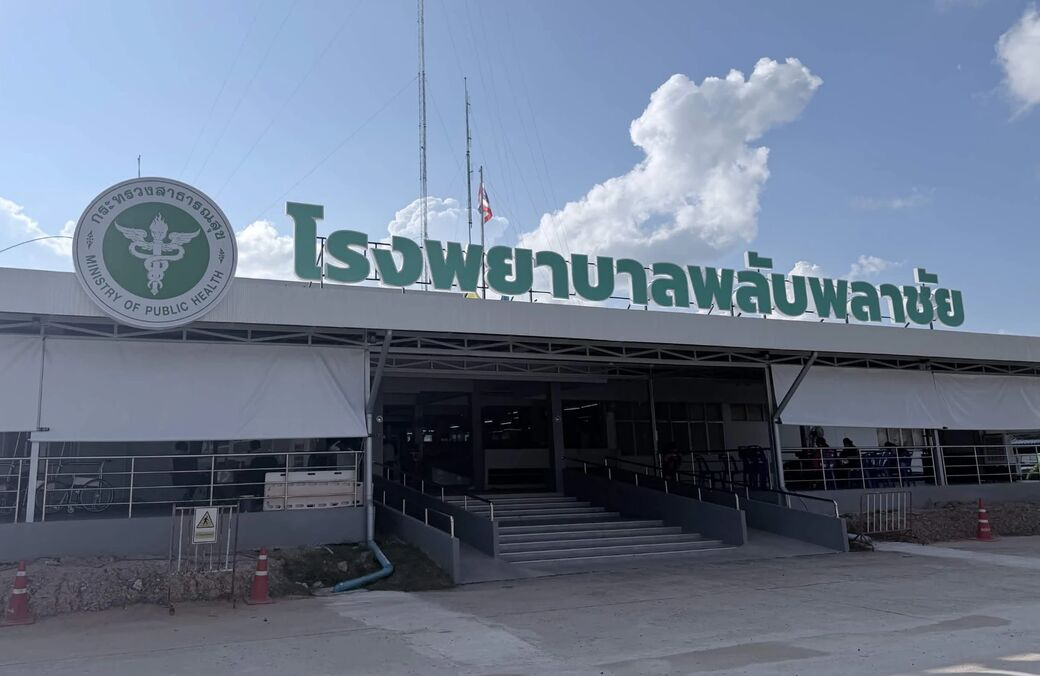
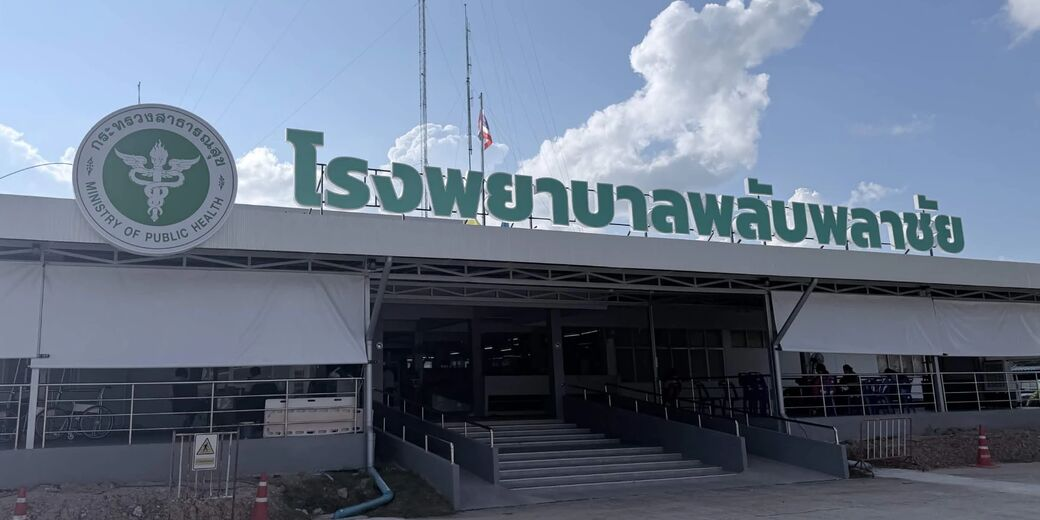
Make the LINE notice card shorter
The card was too long on a phone. Photo header at 2:1 (re-cropped around
the sign), tighter padding, a smaller date tile, detail rows without
separators, what to bring on one line, and the footer notes in one line.
Preparation steps still show as a list when there are any. The admin
preview matches.

Claude-Session: https://claude.ai/code/session_01NoVWNCQfWkXBqYUSpiCKFP

diff --git a/src/domain/notice.ts b/src/domain/notice.ts
@@ -127,49 +127,49 @@ function flexHeader(n: Notice, color: string, logoUrl?: string, photoUrl?: strin
       ...(logoUrl ? [{ type: 'box', layout: 'vertical', width: '28px', height: '28px', cornerRadius: '14px', backgroundColor: '#FFFFFF', flex: 0,
         contents: [{ type: 'image', url: logoUrl, size: 'full', aspectMode: 'cover', aspectRatio: '1:1' }] }] : []),
       { type: 'text', text: HOSPITAL_NAME, color: '#FFFFFF', size: 'xs', weight: 'bold', gravity: 'center' }] },
-    { type: 'text', text: noticeTitle(n), color: '#FFFFFF', size: 'xl', weight: 'bold', wrap: true }] };
-  if (!photoUrl) return { type: 'box', layout: 'vertical', backgroundColor: color, paddingAll: '18px', paddingTop: '20px', contents: [content] };
+    { type: 'text', text: noticeTitle(n), color: '#FFFFFF', size: 'lg', weight: 'bold', wrap: true }] };
+  if (!photoUrl) return { type: 'box', layout: 'vertical', backgroundColor: color, paddingAll: '16px', contents: [content] };
   return { type: 'box', layout: 'vertical', paddingAll: '0px', contents: [
-    { type: 'image', url: photoUrl, size: 'full', aspectMode: 'cover', aspectRatio: '20:13' },
+    { type: 'image', url: photoUrl, size: 'full', aspectMode: 'cover', aspectRatio: '2:1' },
     { type: 'box', layout: 'vertical', ...FILL, offsetTop: '0px', offsetBottom: '0px', contents: [],
-      background: { type: 'linearGradient', angle: '0deg', startColor: color, centerColor: `${color}CC`, centerPosition: '45%', endColor: `${color}00` } },
-    { type: 'box', layout: 'vertical', ...FILL, offsetBottom: '0px', paddingStart: '18px', paddingEnd: '18px', paddingBottom: '16px', contents: [content] }] };
+      background: { type: 'linearGradient', angle: '0deg', startColor: color, centerColor: `${color}CC`, centerPosition: '50%', endColor: `${color}00` } },
+    { type: 'box', layout: 'vertical', ...FILL, offsetBottom: '0px', paddingStart: '16px', paddingEnd: '16px', paddingBottom: '12px', contents: [content] }] };
 }
 
 // Our own LINE Flex bubble (LINE Developers Flex Message spec). logoUrl and photoUrl must be public HTTPS.
-// The date and time come first in a tinted box with a date tile; other details follow as label/value rows.
+// Kept short for a phone screen: date and time first in a tinted box, details as compact label/value rows,
+// what to bring on one line, preparation steps only when there are any, notes in one footer line.
 export function noticeFlex(n: Notice, logoUrl?: string, photoUrl?: string) {
   const color = NOTICE_COLORS[n.kind], steps = noticePreparation(n);
   const strike = n.kind === 'CANCELLED' ? { decoration: 'line-through' } : {};
-  const when = { type: 'box', layout: 'horizontal', spacing: 'md', margin: 'lg', backgroundColor: NOTICE_TINTS[n.kind], cornerRadius: '12px', paddingAll: '12px', alignItems: 'center', contents: [
-    { type: 'box', layout: 'vertical', width: '56px', flex: 0, backgroundColor: color, cornerRadius: '10px', paddingTop: '6px', paddingBottom: '6px', contents: [
-      { type: 'text', text: datePart(n.date, { day: 'numeric' }), size: 'xxl', weight: 'bold', color: '#FFFFFF', align: 'center' },
+  const when = { type: 'box', layout: 'horizontal', spacing: 'md', margin: 'md', backgroundColor: NOTICE_TINTS[n.kind], cornerRadius: '10px', paddingAll: '10px', alignItems: 'center', contents: [
+    { type: 'box', layout: 'vertical', width: '48px', flex: 0, backgroundColor: color, cornerRadius: '8px', paddingTop: '4px', paddingBottom: '4px', contents: [
+      { type: 'text', text: datePart(n.date, { day: 'numeric' }), size: 'xl', weight: 'bold', color: '#FFFFFF', align: 'center' },
       { type: 'text', text: datePart(n.date, { month: 'short', year: '2-digit' }), size: 'xxs', color: '#FFFFFF', align: 'center' }] },
-    { type: 'box', layout: 'vertical', spacing: 'xs', contents: [
+    { type: 'box', layout: 'vertical', contents: [
       { type: 'text', text: thaiLongDate(n.date), size: 'sm', weight: 'bold', color: '#111827', wrap: true, ...strike },
-      { type: 'text', text: n.time ? `${n.time.slice(0, 5)} น.` : 'โปรดติดต่อเจ้าหน้าที่เพื่อยืนยันเวลา', size: n.time ? 'lg' : 'sm', weight: 'bold', color, wrap: true, ...strike }] }] };
+      { type: 'text', text: n.time ? `${n.time.slice(0, 5)} น.` : 'โปรดติดต่อเจ้าหน้าที่เพื่อยืนยันเวลา', size: n.time ? 'lg' : 'xs', weight: 'bold', color, wrap: true, ...strike }] }] };
   // noticeRows starts with the date and time, which the box above already shows.
-  const details = noticeRows(n).slice(2).flatMap(([, label, value], i) => [
-    ...(i ? [{ type: 'separator', color: '#EEF0F2' }] : []),
-    { type: 'box', layout: 'horizontal', spacing: 'md', paddingTop: '10px', paddingBottom: '10px', contents: [
-      { type: 'text', text: label, size: 'xs', color: '#6B7280', flex: 2, wrap: true },
-      { type: 'text', text: value, size: 'sm', color: '#111827', weight: 'bold', flex: 5, wrap: true }] }]);
-  const item = (text: string) => ({ type: 'text', text: `• ${text}`, size: 'sm', color: '#78350F', wrap: true });
+  const details = noticeRows(n).slice(2).map(([, label, value]) => ({ type: 'box', layout: 'horizontal', spacing: 'md', contents: [
+    { type: 'text', text: label, size: 'xs', color: '#6B7280', flex: 2, wrap: true },
+    { type: 'text', text: value, size: 'sm', color: '#111827', weight: 'bold', flex: 5, wrap: true }] }));
+  const prepare = { type: 'box', layout: 'vertical', margin: 'md', backgroundColor: '#FFF8EB', cornerRadius: '10px', paddingAll: '10px', spacing: 'xs', contents: [
+    { type: 'text', wrap: true, size: 'xs', color: '#78350F', contents: [
+      { type: 'span', text: 'สิ่งที่ต้องนำมา: ', weight: 'bold', color: '#92400E' }, { type: 'span', text: NOTICE_PREPARE.join(', ') }] },
+    ...(steps.length ? [{ type: 'text', text: 'การเตรียมตัวก่อนรับการตรวจ', weight: 'bold', size: 'xs', color: '#92400E', margin: 'sm' },
+      ...steps.map(text => ({ type: 'text', text: `• ${text}`, size: 'xs', color: '#78350F', wrap: true }))] : [])] };
   return {
     type: 'flex', altText: `${noticeTitle(n)} · ${thaiLongDate(n.date)}`,
     contents: { type: 'bubble', size: 'mega',
       header: flexHeader(n, color, logoUrl, photoUrl),
-      body: { type: 'box', layout: 'vertical', paddingAll: '20px', contents: [
+      body: { type: 'box', layout: 'vertical', paddingAll: '16px', contents: [
         { type: 'text', text: `เรียน คุณ${n.name}`, weight: 'bold', size: 'md', color: '#111827', wrap: true },
-        { type: 'text', text: noticeLead(n), size: 'sm', color: '#6B7280', wrap: true, margin: 'xs' },
+        { type: 'text', text: noticeLead(n), size: 'xs', color: '#6B7280', wrap: true },
         when,
-        { type: 'box', layout: 'vertical', margin: 'md', contents: details },
-        ...(!showsPreparation(n) ? [] : [{ type: 'box', layout: 'vertical', margin: 'md', backgroundColor: '#FFF8EB', cornerRadius: '12px', paddingAll: '14px', spacing: 'xs', contents: [
-          { type: 'text', text: 'สิ่งที่ต้องนำมา', weight: 'bold', size: 'sm', color: '#92400E' },
-          ...NOTICE_PREPARE.map(item),
-          ...(steps.length ? [{ type: 'text', text: 'การเตรียมตัวก่อนรับการตรวจ', weight: 'bold', size: 'sm', color: '#92400E', margin: 'md' }, ...steps.map(item)] : [])] }])] },
-      footer: { type: 'box', layout: 'vertical', spacing: 'xs', paddingAll: '14px', paddingStart: '20px', paddingEnd: '20px', backgroundColor: '#F7F9F8', contents:
-        noticeFooter(n).map(text => ({ type: 'text', text: `• ${text}`, size: 'xs', color: '#6B7280', wrap: true })) },
+        { type: 'box', layout: 'vertical', margin: 'md', spacing: 'sm', contents: details },
+        ...(showsPreparation(n) ? [prepare] : [])] },
+      footer: { type: 'box', layout: 'vertical', paddingAll: '10px', paddingStart: '16px', paddingEnd: '16px', backgroundColor: '#F7F9F8', contents: [
+        { type: 'text', text: noticeFooter(n).join(' · '), size: 'xxs', color: '#6B7280', wrap: true }] },
       styles: { footer: { separator: true, separatorColor: '#EEF0F2' } },
     },
   };

diff --git a/components/notice-preview.tsx b/components/notice-preview.tsx
@@ -21,10 +21,10 @@ export function NoticeCard({ notice }: { notice: Notice }) {
       <div className={`nc-when${cancelled ? ' struck' : ''}`}><span className="nc-tile"><b>{datePart(notice.date, { day: 'numeric' })}</b>{datePart(notice.date, { month: 'short', year: '2-digit' })}</span>
         <span><span className="nc-date">{thaiLongDate(notice.date)}</span><span className="nc-time">{notice.time ? `${notice.time.slice(0, 5)} น.` : 'โปรดติดต่อเจ้าหน้าที่เพื่อยืนยันเวลา'}</span></span></div>
       <dl className="nc-rows">{noticeRows(notice).slice(2).map(([, label, value]) => <div key={label}><dt>{label}</dt><dd>{value}</dd></div>)}</dl>
-      {showsPreparation(notice) && <div className="nc-prepare"><strong>สิ่งที่ต้องนำมา</strong><ul>{NOTICE_PREPARE.map(item => <li key={item}>{item}</li>)}</ul>
+      {showsPreparation(notice) && <div className="nc-prepare"><p><strong>สิ่งที่ต้องนำมา:</strong> {NOTICE_PREPARE.join(', ')}</p>
         {steps.length > 0 && <><strong>การเตรียมตัวก่อนรับการตรวจ</strong><ul>{steps.map(item => <li key={item}>{item}</li>)}</ul></>}</div>}
     </div>
-    <ul className="nc-foot">{noticeFooter(notice).map(line => <li key={line}>{line}</li>)}</ul>
+    <p className="nc-foot">{noticeFooter(notice).join(' · ')}</p>
   </div>;
 }
 

diff --git a/tests/notice.test.ts b/tests/notice.test.ts
@@ -101,8 +101,8 @@ test('flex card: photo header fading into the notice colour, date box first, pla
   const n: Notice = { kind: 'NEW', name: 'ทดสอบ', date: '2027-01-29', time: '09:00:00', service: 'ทันตกรรม', location: 'ห้องบัตร' };
   const card = noticeFlex(n, 'https://example.test/hospital-logo.png', 'https://example.test/hospital-header.jpg') as { contents: { header: { contents: Record<string, unknown>[] }; body: { contents: Record<string, unknown>[] } } };
   const [photo, fade, content] = card.contents.header.contents;
-  assert.deepEqual([photo.type, photo.url, photo.aspectMode, photo.aspectRatio], ['image', 'https://example.test/hospital-header.jpg', 'cover', '20:13']);
-  assert.deepEqual(fade.background, { type: 'linearGradient', angle: '0deg', startColor: '#0D5B44', centerColor: '#0D5B44CC', centerPosition: '45%', endColor: '#0D5B4400' });
+  assert.deepEqual([photo.type, photo.url, photo.aspectMode, photo.aspectRatio], ['image', 'https://example.test/hospital-header.jpg', 'cover', '2:1']);
+  assert.deepEqual(fade.background, { type: 'linearGradient', angle: '0deg', startColor: '#0D5B44', centerColor: '#0D5B44CC', centerPosition: '50%', endColor: '#0D5B4400' });
   for (const layer of [fade, content]) assert.equal(layer.position, 'absolute');
   assert.ok(JSON.stringify(content).includes('hospital-logo.png'));
   const body = JSON.stringify(card.contents.body);

diff --git a/app/globals.css b/app/globals.css
@@ -115,3 +115,11 @@ section[aria-label="ปฏิทินตรวจสุขภาพ"] .service-
 .nc-prepare ul{margin:4px 0 0;padding-left:18px}
 .nc-foot{margin:0;padding:12px 20px 12px 36px;background:#f7f9f8;border-top:1px solid #eef0f2;color:#6b7280;font-size:12px}
 .nc-prepare ul,.nc-foot{list-style:disc}
+
+/* Compact card (shorter on a phone): 2:1 photo, tighter spacing, one-line bring list and footer. */
+.nc-head{aspect-ratio:2/1}.nc-head-text{padding:0 16px 12px}.nc-head-text strong{font-size:18px}
+.nc-body{padding:16px}.nc-lead{font-size:12px}
+.nc-when{padding:10px;margin:10px 0 8px;border-radius:10px}.nc-tile{flex-basis:48px;border-radius:8px;padding:4px 0}.nc-tile b{font-size:20px}
+.nc-rows div{padding:3px 0;border-top:0}
+.nc-prepare{padding:10px;margin-top:10px;border-radius:10px;font-size:12px}.nc-prepare p{margin:0}.nc-prepare strong{display:inline}.nc-prepare p+strong{display:block;margin-top:6px}
+.nc-foot{padding:8px 16px;font-size:11px;list-style:none}
